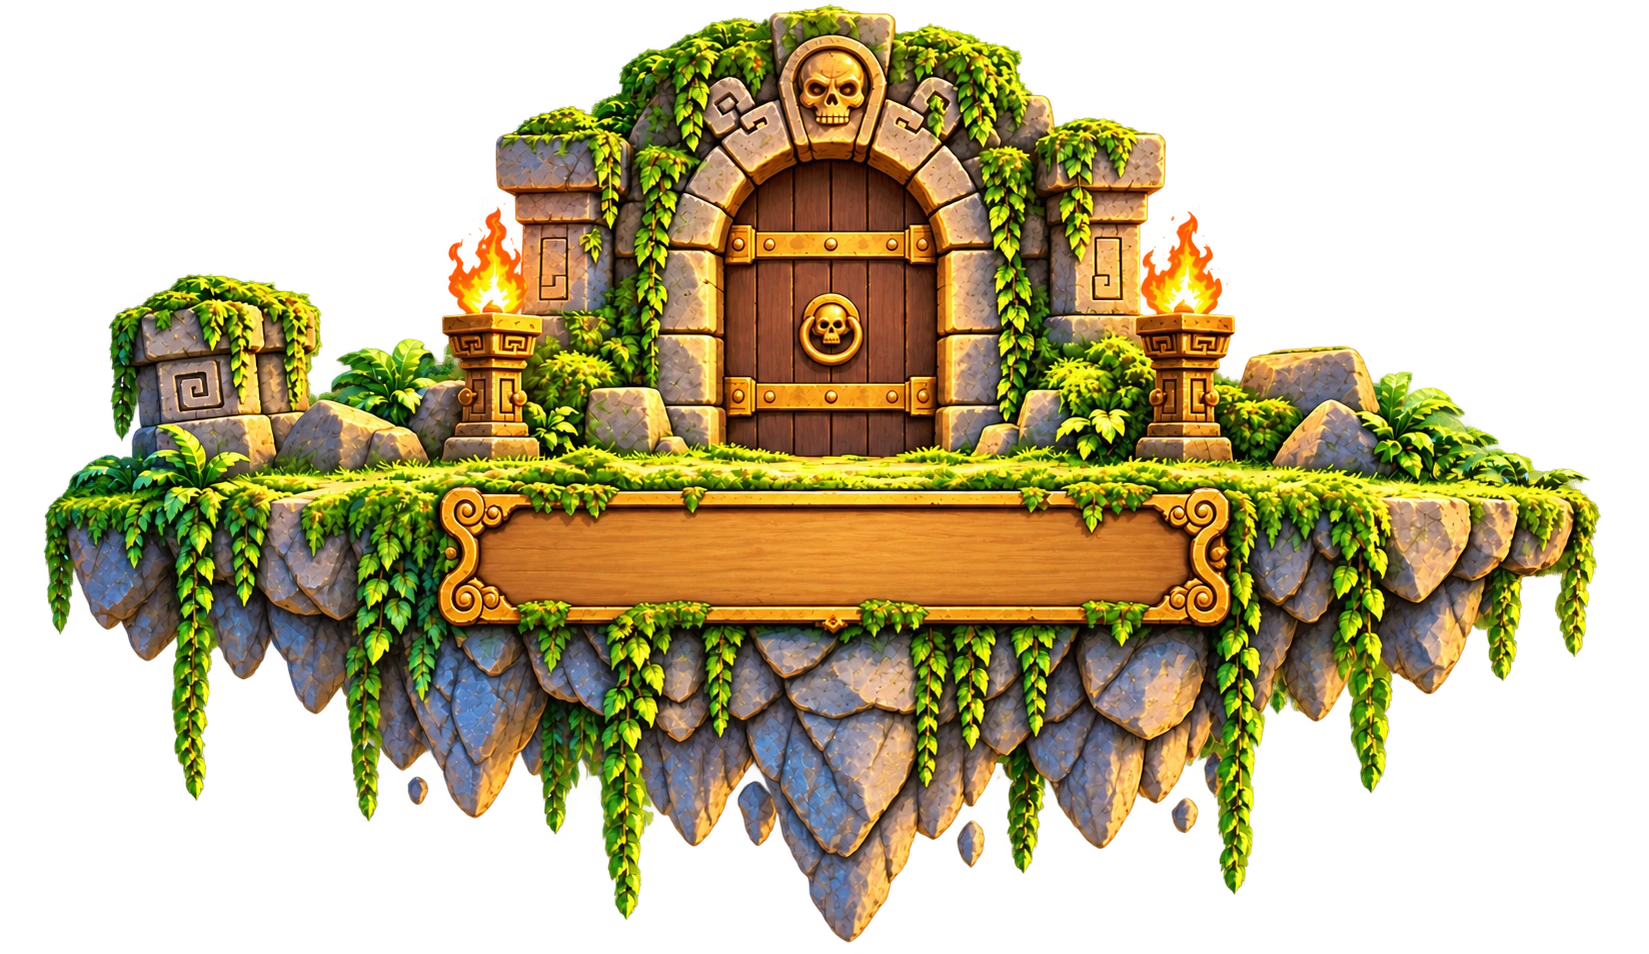
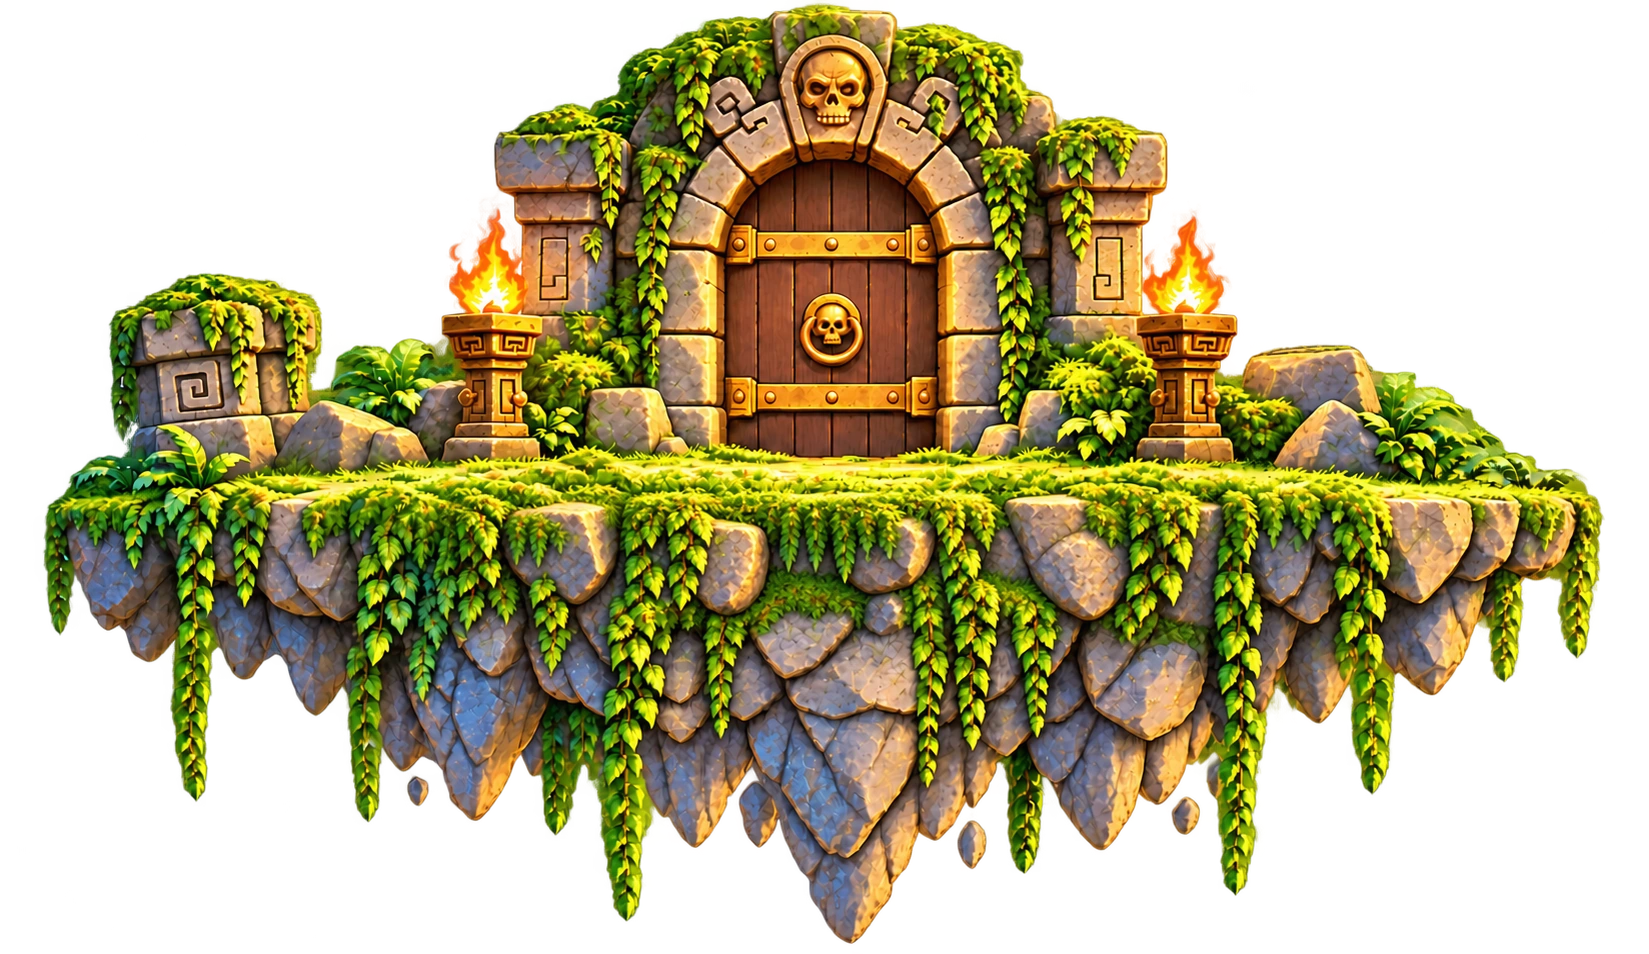
fix: improve menu readability and platform signs

Changed region(s): [[0.0309, 0.0, 0.9897, 1.0]]

diff --git a/styles/menu.css b/styles/menu.css
@@ -73,12 +73,13 @@
     outline: none;
 }
 
-.menu-island:hover, .menu-island:focus-visible, .menu-island.menu-near {
+.menu-island:is(:hover, :focus-visible, .menu-near) > svg, .menu-island:is(:hover, :focus-visible, .menu-near) > .menu-label {
     filter: brightness(1.2) drop-shadow(0 0 6px #efb34d);
 }
 
 .menu-character {
     position: absolute;
+    z-index: 2;
     inset: 0;
     width: 100%;
     height: 100%;
@@ -90,95 +91,44 @@
     pointer-events: none;
 }
 
-.menu-label {
-    position: absolute;
-    display: flex;
-    align-items: center;
-    justify-content: center;
-    box-sizing: border-box;
-    background: none;
-    color: #35200d;
-    font-family: 'Luckiest Guy', sans-serif;
-    font-weight: 400;
-    font-size: clamp(9px, 1.85cqw, 18px);
-    text-align: center;
-    white-space: nowrap;
-    line-height: 1;
-    text-transform: uppercase;
-    letter-spacing: 0.01em;
-    text-shadow: 0 1px 0 rgb(255 241 195 / 45%);
-    pointer-events: none;
-}
-
 .start-island {
+    --menu-surface: 53%;
     left: 18.665562%;
     top: 32.439333%;
     width: 28.293876%;
     height: 33.133333%;
 }
 
-.start-island .menu-label {
-    left: 26.395939%;
-    top: 58.752515%;
-    width: 47.860769%;
-    height: 10.060362%;
-}
-
 .options-island {
+    --menu-surface: 37%;
     left: 47.382028%;
     top: 36.676296%;
     width: 25.027610%;
     height: 26.000000%;
 }
 
-.options-island .menu-label {
-    left: 22.685789%;
-    top: 41.666667%;
-    width: 54.106910%;
-    height: 12.820513%;
-}
-
 .highscores-island {
+    --menu-surface: 45%;
     left: 71.558442%;
     top: 39.682287%;
     width: 27.716450%;
     height: 27.043478%;
 }
 
-.highscores-island .menu-label {
-    left: 24.809645%;
-    top: 48.874598%;
-    width: 48.857868%;
-    height: 12.325831%;
-}
-
 .guide-island {
+    --menu-surface: 39%;
     left: 42.726914%;
     top: 65.130833%;
     width: 23.921171%;
     height: 25.305556%;
 }
 
-.guide-island .menu-label {
-    left: 21.542228%;
-    top: 42.371021%;
-    width: 56.609547%;
-    height: 13.172338%;
-    font-size: clamp(6px, 1cqw, 20px);
-}
-
 .quit-island {
+    --menu-surface: 50%;
     left: 68.871783%;
     top: 65.000000%;
     width: 31.006434%;
     height: 34.814815%;
-}
-
-.quit-island .menu-label {
-    left: 28.965960%;
-    top: 54.468085%;
-    width: 43.673732%;
-    height: 9.574468%;
 }
 
 .menu-dialog::backdrop {
@@ -301,7 +251,7 @@ kbd {
 }
 
 .language-flags span {
-    font-size: 13px;
+    font-size: 16px;
 }
 
 .end-screen, .end-screen .retry-button {
@@ -338,7 +288,7 @@ kbd {
 
 .intro-actions .retry-button {
     width: 48%;
-    font-size: 2.9cqw;
+    font-size: max(16px, 2.9cqw);
 }
 
 .intro-screen video {
@@ -365,12 +315,12 @@ kbd {
 
 .intro-playing #intro-menu-button {
     width: 28%;
-    font-size: 2.3cqw;
+    font-size: max(16px, 2.3cqw);
 }
 
 #intro-status {
     max-width: 80%;
-    font-size: clamp(12px, 2cqw, 18px);
+    font-size: clamp(16px, 2cqw, 18px);
     text-align: center;
 }
 

diff --git a/style.css b/style.css
@@ -86,7 +86,7 @@ canvas {
 .end-panel p {
     max-width: 72%;
     margin: 0;
-    font-size: clamp(10px, 2cqw, 19px);
+    font-size: clamp(16px, 2cqw, 19px);
 }
 
 .retry-button {
@@ -96,7 +96,7 @@ canvas {
     background: url('assets/images/optimized/ui/endscreens/retry-plattform.webp') center / contain no-repeat;
     border: 0;
     color: rgb(255, 240, 191);
-    font: bold clamp(12px, 2.3cqw, 22px) Arial, sans-serif;
+    font: bold clamp(16px, 2.3cqw, 22px) Arial, sans-serif;
     text-shadow: 0 2px 3px rgb(36, 21, 9), 1px 0 2px rgb(36, 21, 9), -1px 0 2px rgb(36, 21, 9);
     cursor: pointer;
 }
@@ -115,7 +115,7 @@ canvas {
     column-gap: 2cqw;
     width: 40%;
     margin: 0.5% 0 0;
-    font-size: clamp(9px, 1.65cqw, 16px);
+    font-size: clamp(16px, 1.65cqw, 16px);
     line-height: 1.15;
     text-align: left;
 }
@@ -143,7 +143,7 @@ canvas {
 }
 
 .end-panel.victory p {
-    font-size: clamp(9px, 1.8cqw, 17px);
+    font-size: clamp(16px, 1.8cqw, 17px);
 }
 
 .page-title {
@@ -218,7 +218,7 @@ canvas {
 .end-actions .retry-button {
     width: 48%;
     padding: 0 3%;
-    font-size: 2.99cqw;
+    font-size: max(16px, 2.99cqw);
 }
 
 .loading-screen {
@@ -242,7 +242,7 @@ canvas {
 
 .loading-screen p {
     margin: 0;
-    font-size: clamp(12px, 2.2cqw, 21px);
+    font-size: clamp(16px, 2.2cqw, 21px);
 }
 
 .loading-spinner {
@@ -328,5 +328,5 @@ canvas {
     display: block;
     width: 100%;
     margin: 0;
-    font-size: min(39px, 9.5cqw);
+    font-size: clamp(16px, 9.5cqw, 39px);
 }

diff --git a/styles/menu-signs.css b/styles/menu-signs.css
@@ -1,0 +1,43 @@
+/* Independent, text-sized signs stay below each platform's walking surface. */
+
+.menu-label {
+    position: absolute;
+    z-index: 1;
+    left: 50%;
+    top: calc(var(--menu-surface) + clamp(6px, 1cqw, 12px));
+    display: block;
+    box-sizing: border-box;
+    width: max-content;
+    max-width: max(154px, 94%);
+    padding: 0.1em 0.2em;
+    border: solid transparent;
+    border-width: 0.3em 0.9em;
+    border-image: url('../assets/images/optimized/ui/startscreen/signboard.webp') 24% 18% fill / 0.3em 0.9em / 0 stretch;
+    color: #35200d;
+    font-family: 'Luckiest Guy', sans-serif;
+    font-size: clamp(16px, 1.85cqw, 20px);
+    font-weight: 400;
+    line-height: 1.1;
+    text-align: center;
+    text-transform: uppercase;
+    text-shadow: 0 1px 0 rgb(255 241 195 / 45%);
+    pointer-events: auto;
+    transform: translateX(-50%);
+}
+
+.guide-island .menu-label {
+    max-width: clamp(154px, 40cqw, 360px);
+}
+@container (max-width: 500px) {
+    .guide-island .menu-label {
+        max-width: 154px;
+    }
+
+    .start-island .menu-label {
+        max-width: 125px;
+    }
+
+    .highscores-island .menu-label {
+        top: calc(var(--menu-surface) + 22px);
+    }
+}

diff --git a/styles/responsive.css b/styles/responsive.css
@@ -124,7 +124,7 @@ html {
 }
 
 .pause-actions .retry-button > span {
-    font-size: min(32px, 9cqw);
+    font-size: clamp(16px, 9cqw, 32px);
 }
 
 .pause-settings {
@@ -167,7 +167,7 @@ html {
 
 .pause-settings [data-fullscreen-note] {
     margin: 6px 0 0;
-    font-size: 12px;
+    font-size: 16px;
     line-height: 1.4;
 }
 
@@ -183,6 +183,10 @@ html {
 }
 
 @media (max-height: 400px) and (min-width: 561px) {
+    .pause-dialog {
+        padding-block: 6px;
+    }
+
     .pause-settings h3 {
         display: none;
     }

diff --git a/index.html b/index.html
@@ -14,6 +14,7 @@
     <link rel="stylesheet" href="style.css">
     <link rel="stylesheet" href="styles/menu.css">
     <link rel="stylesheet" href="styles/guide.css">
+    <link rel="stylesheet" href="styles/menu-signs.css">
     <link rel="stylesheet" href="styles/touch-controls.css">
     <link rel="stylesheet" href="styles/responsive.css">
 
